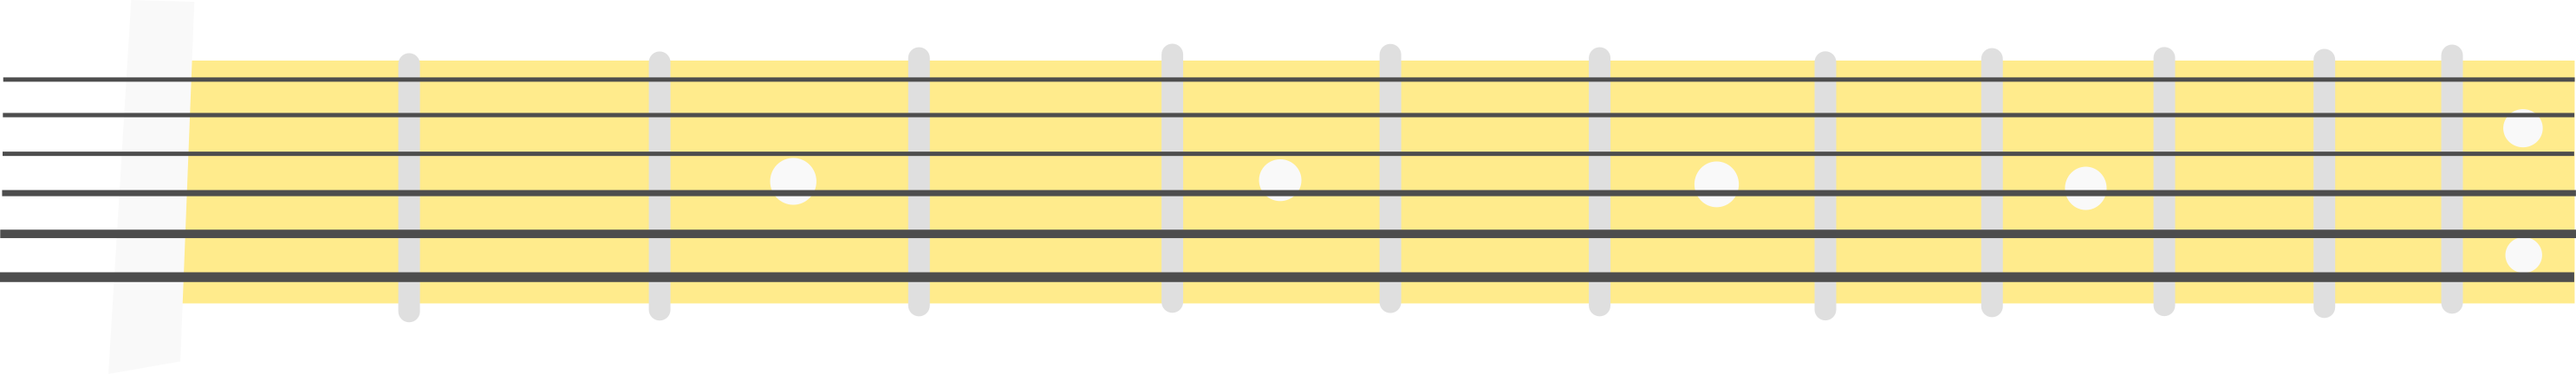
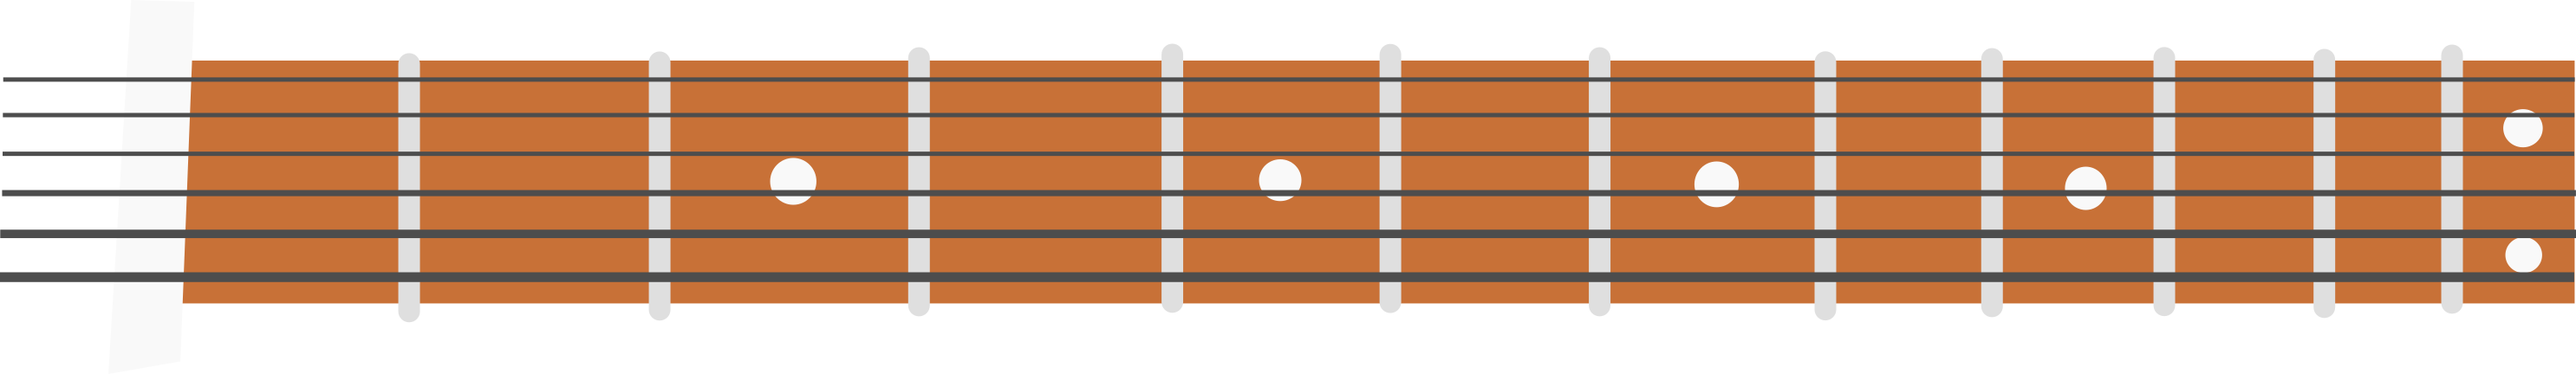
v1.3.0
- List of notes of scale
- Color corrected
- useless things deleted
- deleted "Select" button

diff --git a/index.html b/index.html
@@ -9,7 +9,7 @@
     <link href="https://fonts.googleapis.com/css2?family=DM+Sans:opsz,wght@9..40,300&display=swap" rel="stylesheet">
     <link rel="stylesheet" href="css/style.css">
     <link rel="icon" href="files/icon.png">
-    <title>Scale-o-Meter v1.0</title>
+    <title>Scale-o-Meter v1.3.0</title>
 </head>
 <body>
     <h1>Scale-o-meter</h1>
@@ -17,7 +17,7 @@
         <div class="neck">
             <div class="st1">
                 <div class="fret" id="st1-0">
-                    <select id="st1">
+                    <select id="st1" onchange="selectScale()">
                         <option value="C">C</option>
                         <option value="C#">C#</option>
                         <option value="D">D</option>
@@ -47,7 +47,7 @@
             </div>
             <div class="st2">
                 <div class="fret" id="st2-0">
-                    <select id="st2">
+                    <select id="st2" onchange="selectScale()">
                         <option value="C">C</option>
                         <option value="C#">C#</option>
                         <option value="D">D</option>
@@ -77,7 +77,7 @@
             </div>
             <div class="st3">
                 <div class="fret" id="st3-0">
-                    <select id="st3">
+                    <select id="st3" onchange="selectScale()">
                         <option value="C">C</option>
                         <option value="C#">C#</option>
                         <option value="D" selected>D</option>
@@ -105,7 +105,7 @@
                 <div class="fret" id="st3-11">F#</div>
                 <div class="fret" id="st3-12">G</div>
             </div>
-            <div class="st4">
+            <div class="st4" onchange="selectScale()">
                 <div class="fret" id="st4-0">
                     <select id="st4">
                         <option value="C">C</option>
@@ -135,7 +135,7 @@
                 <div class="fret" id="st4-11">C#</div>
                 <div class="fret" id="st4-12">D</div>
             </div>
-            <div class="st5">
+            <div class="st5" onchange="selectScale()">
                 <div class="fret" id="st5-0">
                     <select id="st5">
                         <option value="C">C</option>
@@ -165,7 +165,7 @@
                 <div class="fret" id="st5-11">G#</div>
                 <div class="fret" id="st5-12">A</div>
             </div>
-            <div class="st6">
+            <div class="st6" onchange="selectScale()">
                 <div class="fret" id="st6-0">
                     <select id="st6">
                         <option value="C">C</option>
@@ -259,51 +259,28 @@
                             <option value="b_minor_pentatonic">B Minor Pentatonic</option>
                           </optgroup>
                     </select>
-                    <input type="button" value="Select" onclick="selectScale();">
             </form>
+            <h3 id="notesOf">Notes of the all notes scale:</h3>
+            <ol type="I" id="notesOlList">
+                <li>C</li>
+                <li>C#</li>
+                <li>D</li>
+                <li>D#</li>
+                <li>E</li>
+                <li>F</li>
+                <li>F#</li>
+                <li>G</li>
+                <li>G#</li>
+                <li>A</li>
+                <li>A#</li>
+                <li>B</li>
+            </ol>
         </div>
     </div>
-    <small>v1.0 | By PasteLuengas</small>
+    <small>v1.3.0 | By PasteLuengas</small>
     <script src="js/script.js"></script>
 
     <!-- INFO ABOUT THE WEB APP-->
-    
-    <div class="information">
-        <h2>How to use Scale-o-meter?</h2>
-        <div class="steps">
-            <div class="step left">
-                <div class="stepimage">
-                    <img src="images/tunings.png" alt="Tune your guitar">
-                </div>
-                <div class="steptext">
-                    <span class="stepnumber">1.</span>
-                    <span class="steptitle"><b>Tune</b> <br> the guitar.</span>
-                    <p class="stepsubtitle">Using the note-selection <br> options.</p>
-                </div>
-            </div>
-            <!-- ----- -->
-            <div class="step right">
-                <div class="steptext">
-                    <span class="stepnumber">2.</span>
-                    <span class="steptitle"><b>Select</b> <br> the scale.</span>
-                    <p class="stepsubtitle">Using the scale-selection <br> options.</p>
-                </div>
-                <div class="stepimage">
-                    <img src="images/scales.png" alt="Tune your guitar">
-                </div>
-            </div>
-            <!-- --- -->
-            <div class="step left">
-                <div class="stepimage">
-                    <img src="images/save.png" alt="Tune your guitar">
-                </div>
-                <div class="steptext">
-                    <span class="stepnumber">3.</span>
-                    <span class="steptitle"><b>Press</b> <br> the button</span>
-                    <p class="stepsubtitle">And start learning.</p>
-                </div>
-            </div>
-        </div>
-        </div>
+
 </body>
 </html>

diff --git a/js/script.js b/js/script.js
@@ -1,3 +1,5 @@
+let listOf = document.getElementById("notesOlList");
+
 let st1 = ["E"];
 let st2 = ["B"];
 let st3 = ["G"];
@@ -24,6 +26,7 @@ const codeNotes = {
 
 //SCALES
 const scales = {
+    all_notes: ["C", "C#", "D", "D#", "E", "F", "F#", "G", "G#", "A", "A#", "B"],
     c_major: ["C", "D", "E", "F", "G", "A", "B"],
     c_minor: ["C", "D", "D#", "F", "G", "G#", "A#"],
     cs_major: ["C#", "D#", "F", "F#", "G#", "A#", "C"],
@@ -70,6 +73,16 @@ const scales = {
 }
 
 function selectScale() {
+    // the actual scale
+    let currentScale = document.getElementById("scale_selected").value;
+    // listing the scale
+    listOf.innerHTML = "";
+    for (let i = 0; i < scales[currentScale].length; i++) {
+        listOf.innerHTML += "<li>" + scales[currentScale][i] + "</li>";
+    }
+    document.getElementById("notesOf").innerHTML = "Notes of the " + currentScale.replace("_", " ").replace("sharp", "#").replace("s", "#").replace("major", "").toUpperCase().replace(" MINOR", "m").replace("ALL NOTE#", "all notes") + " scale:";
+
+
     // Changing the tuning
     st1.splice(0);
     st2.splice(0);
@@ -113,8 +126,7 @@ function selectScale() {
     }
 
     // Showing/Hidding notes depending by scale
-    let actualScale = document.getElementById("scale_selected").value;
-    if (actualScale == "all_notes") {
+    if (currentScale == "all_notes") {
         for (let i = 1; i < 13; i++) {
             //document.getElementById("st1-" + i).style.backgroundColor = "rgba(0,0,0,0.5)";
 
@@ -128,10 +140,11 @@ function selectScale() {
             document.getElementById("st" + i).style.backgroundColor = "green";
             document.getElementById("st" + i).style.color = "white";
         }
+
     } else {
         for (let i = 1; i < 13; i++) {
             for (let q = 1; q <= 6; q++) {
-                if (scales[actualScale].includes(document.getElementById("st" + q + "-" + i).innerHTML)) {
+                if (scales[currentScale].includes(document.getElementById("st" + q + "-" + i).innerHTML)) {
                     document.getElementById("st" + q + "-" + i).style.backgroundColor = "green";
                     document.getElementById("st" + q + "-" + i).style.color = "white";
                 } else {
@@ -141,7 +154,7 @@ function selectScale() {
             }
         }
         for(let i = 1; i => 6; i++) {
-            if (scales[actualScale].includes(document.getElementById("st" + i).value)){
+            if (scales[currentScale].includes(document.getElementById("st" + i).value)){
                 document.getElementById("st" + i).style.backgroundColor = "green";
                 document.getElementById("st" + i).style.color = "white";
             } else {
